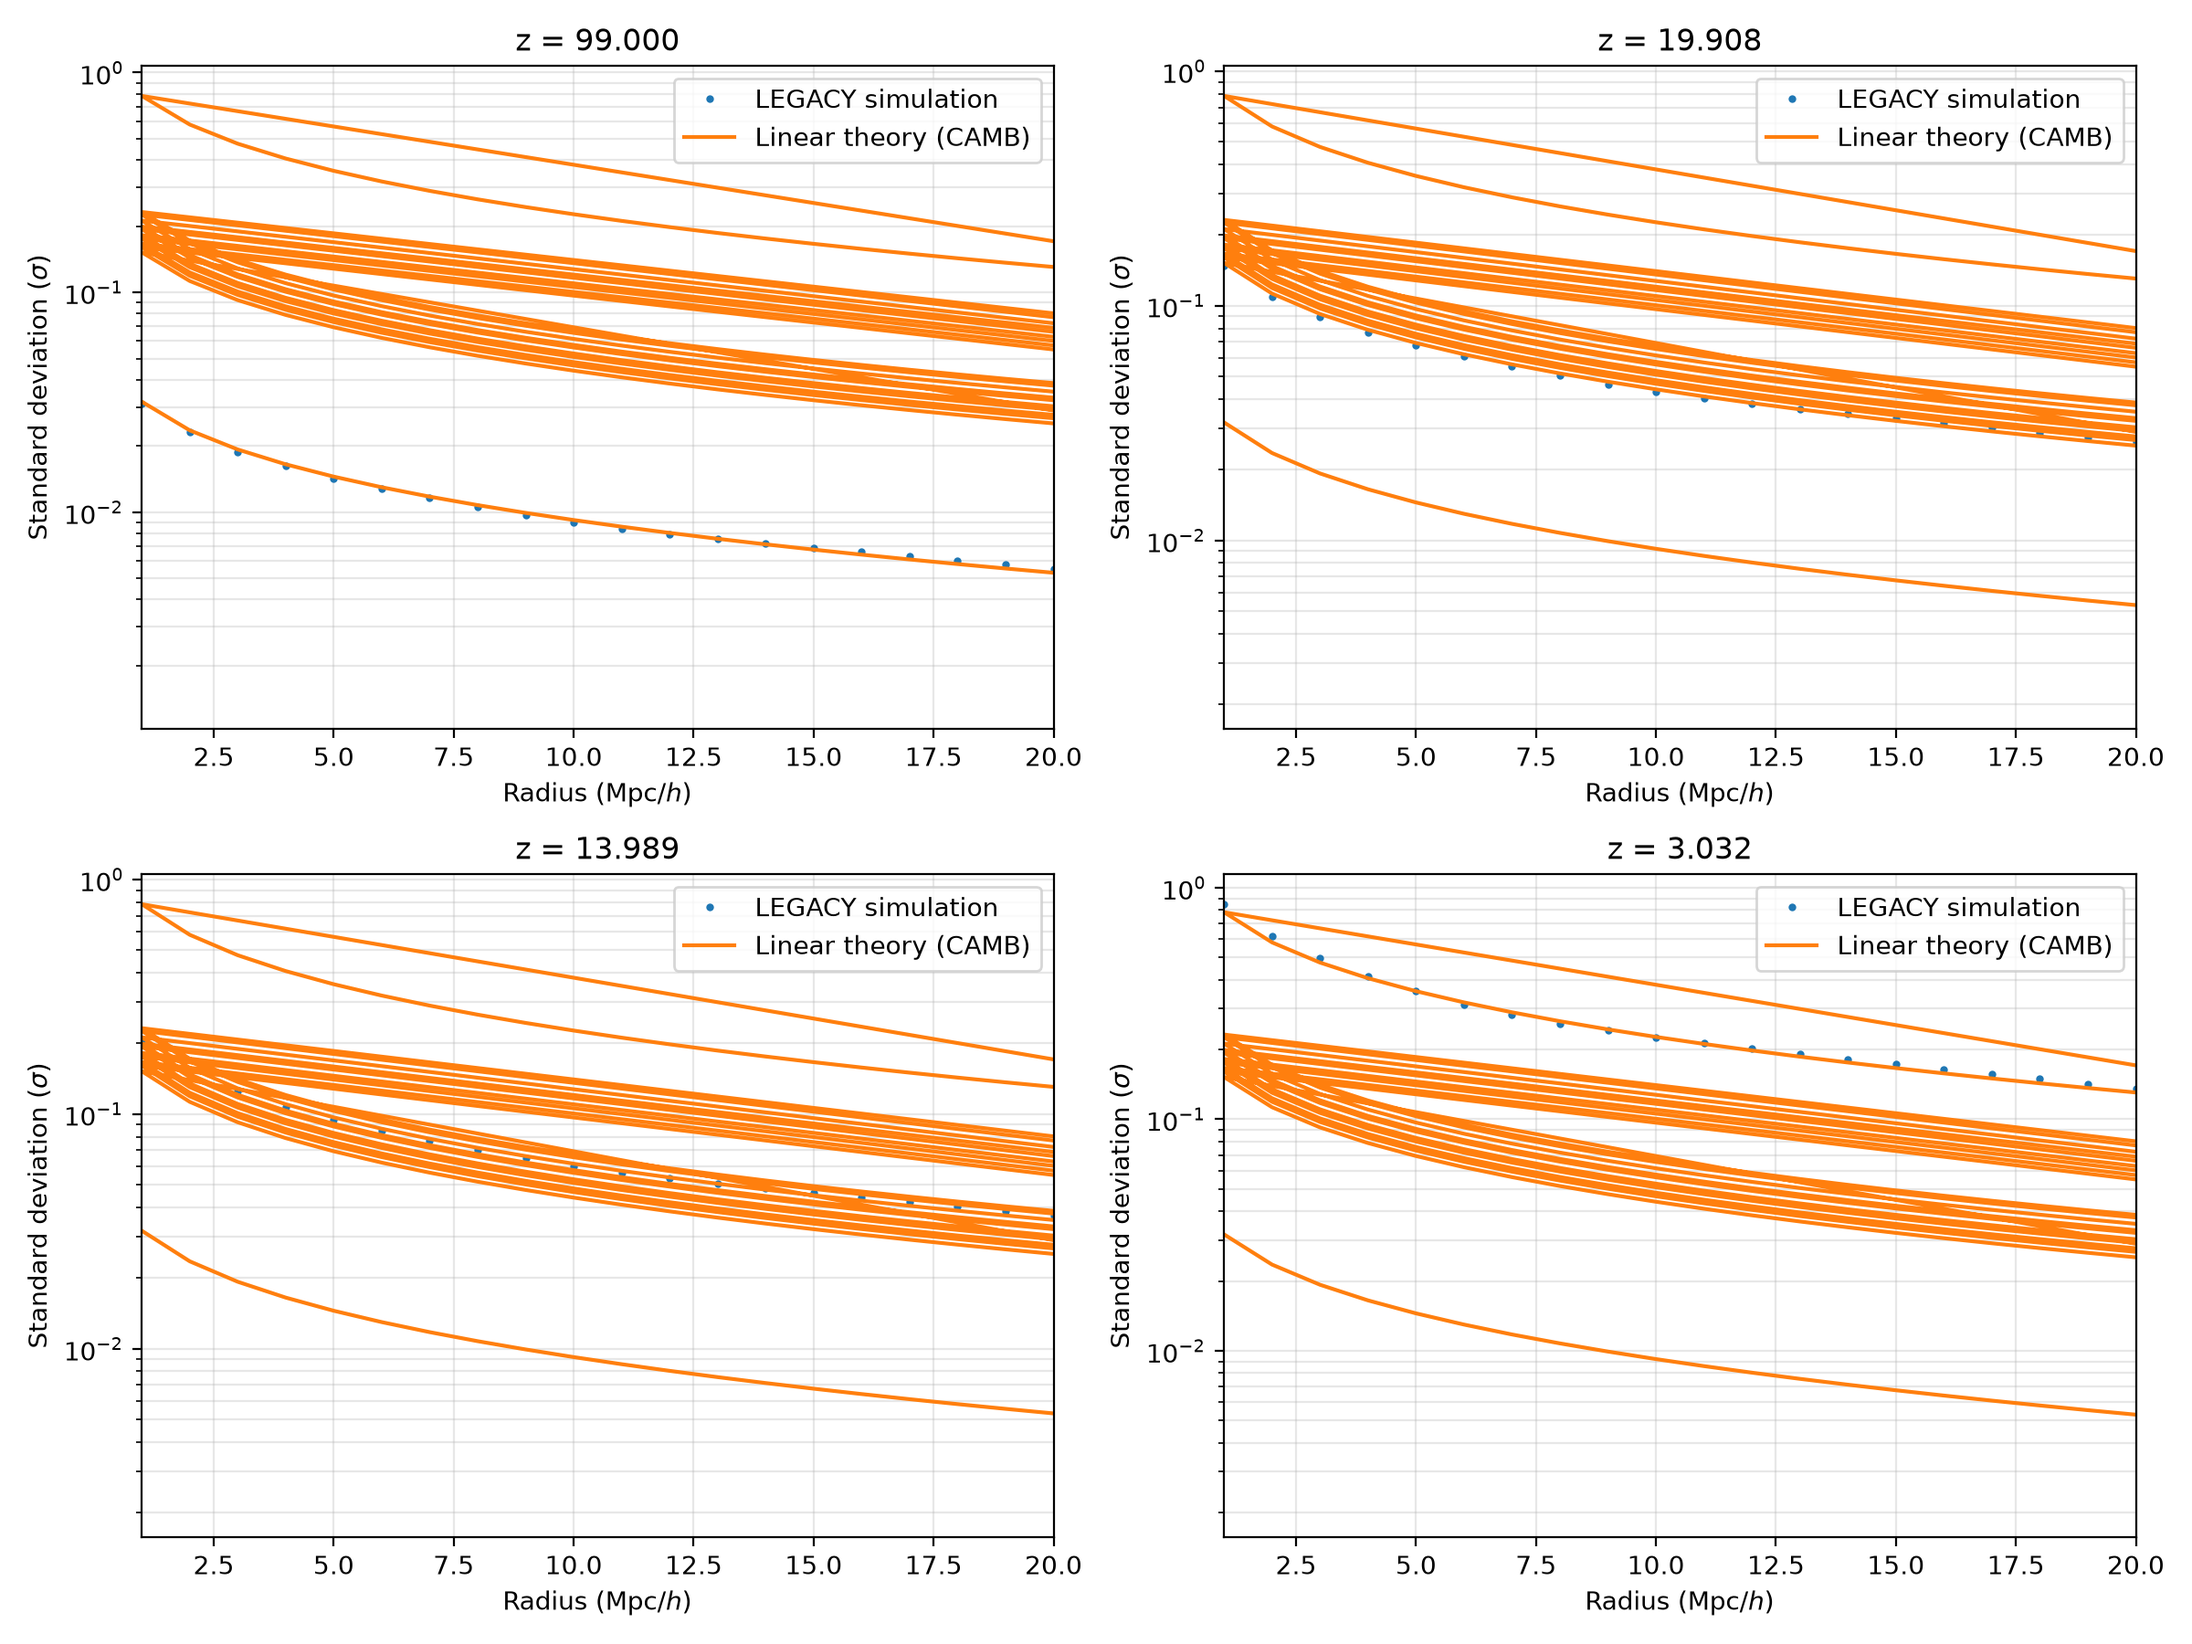
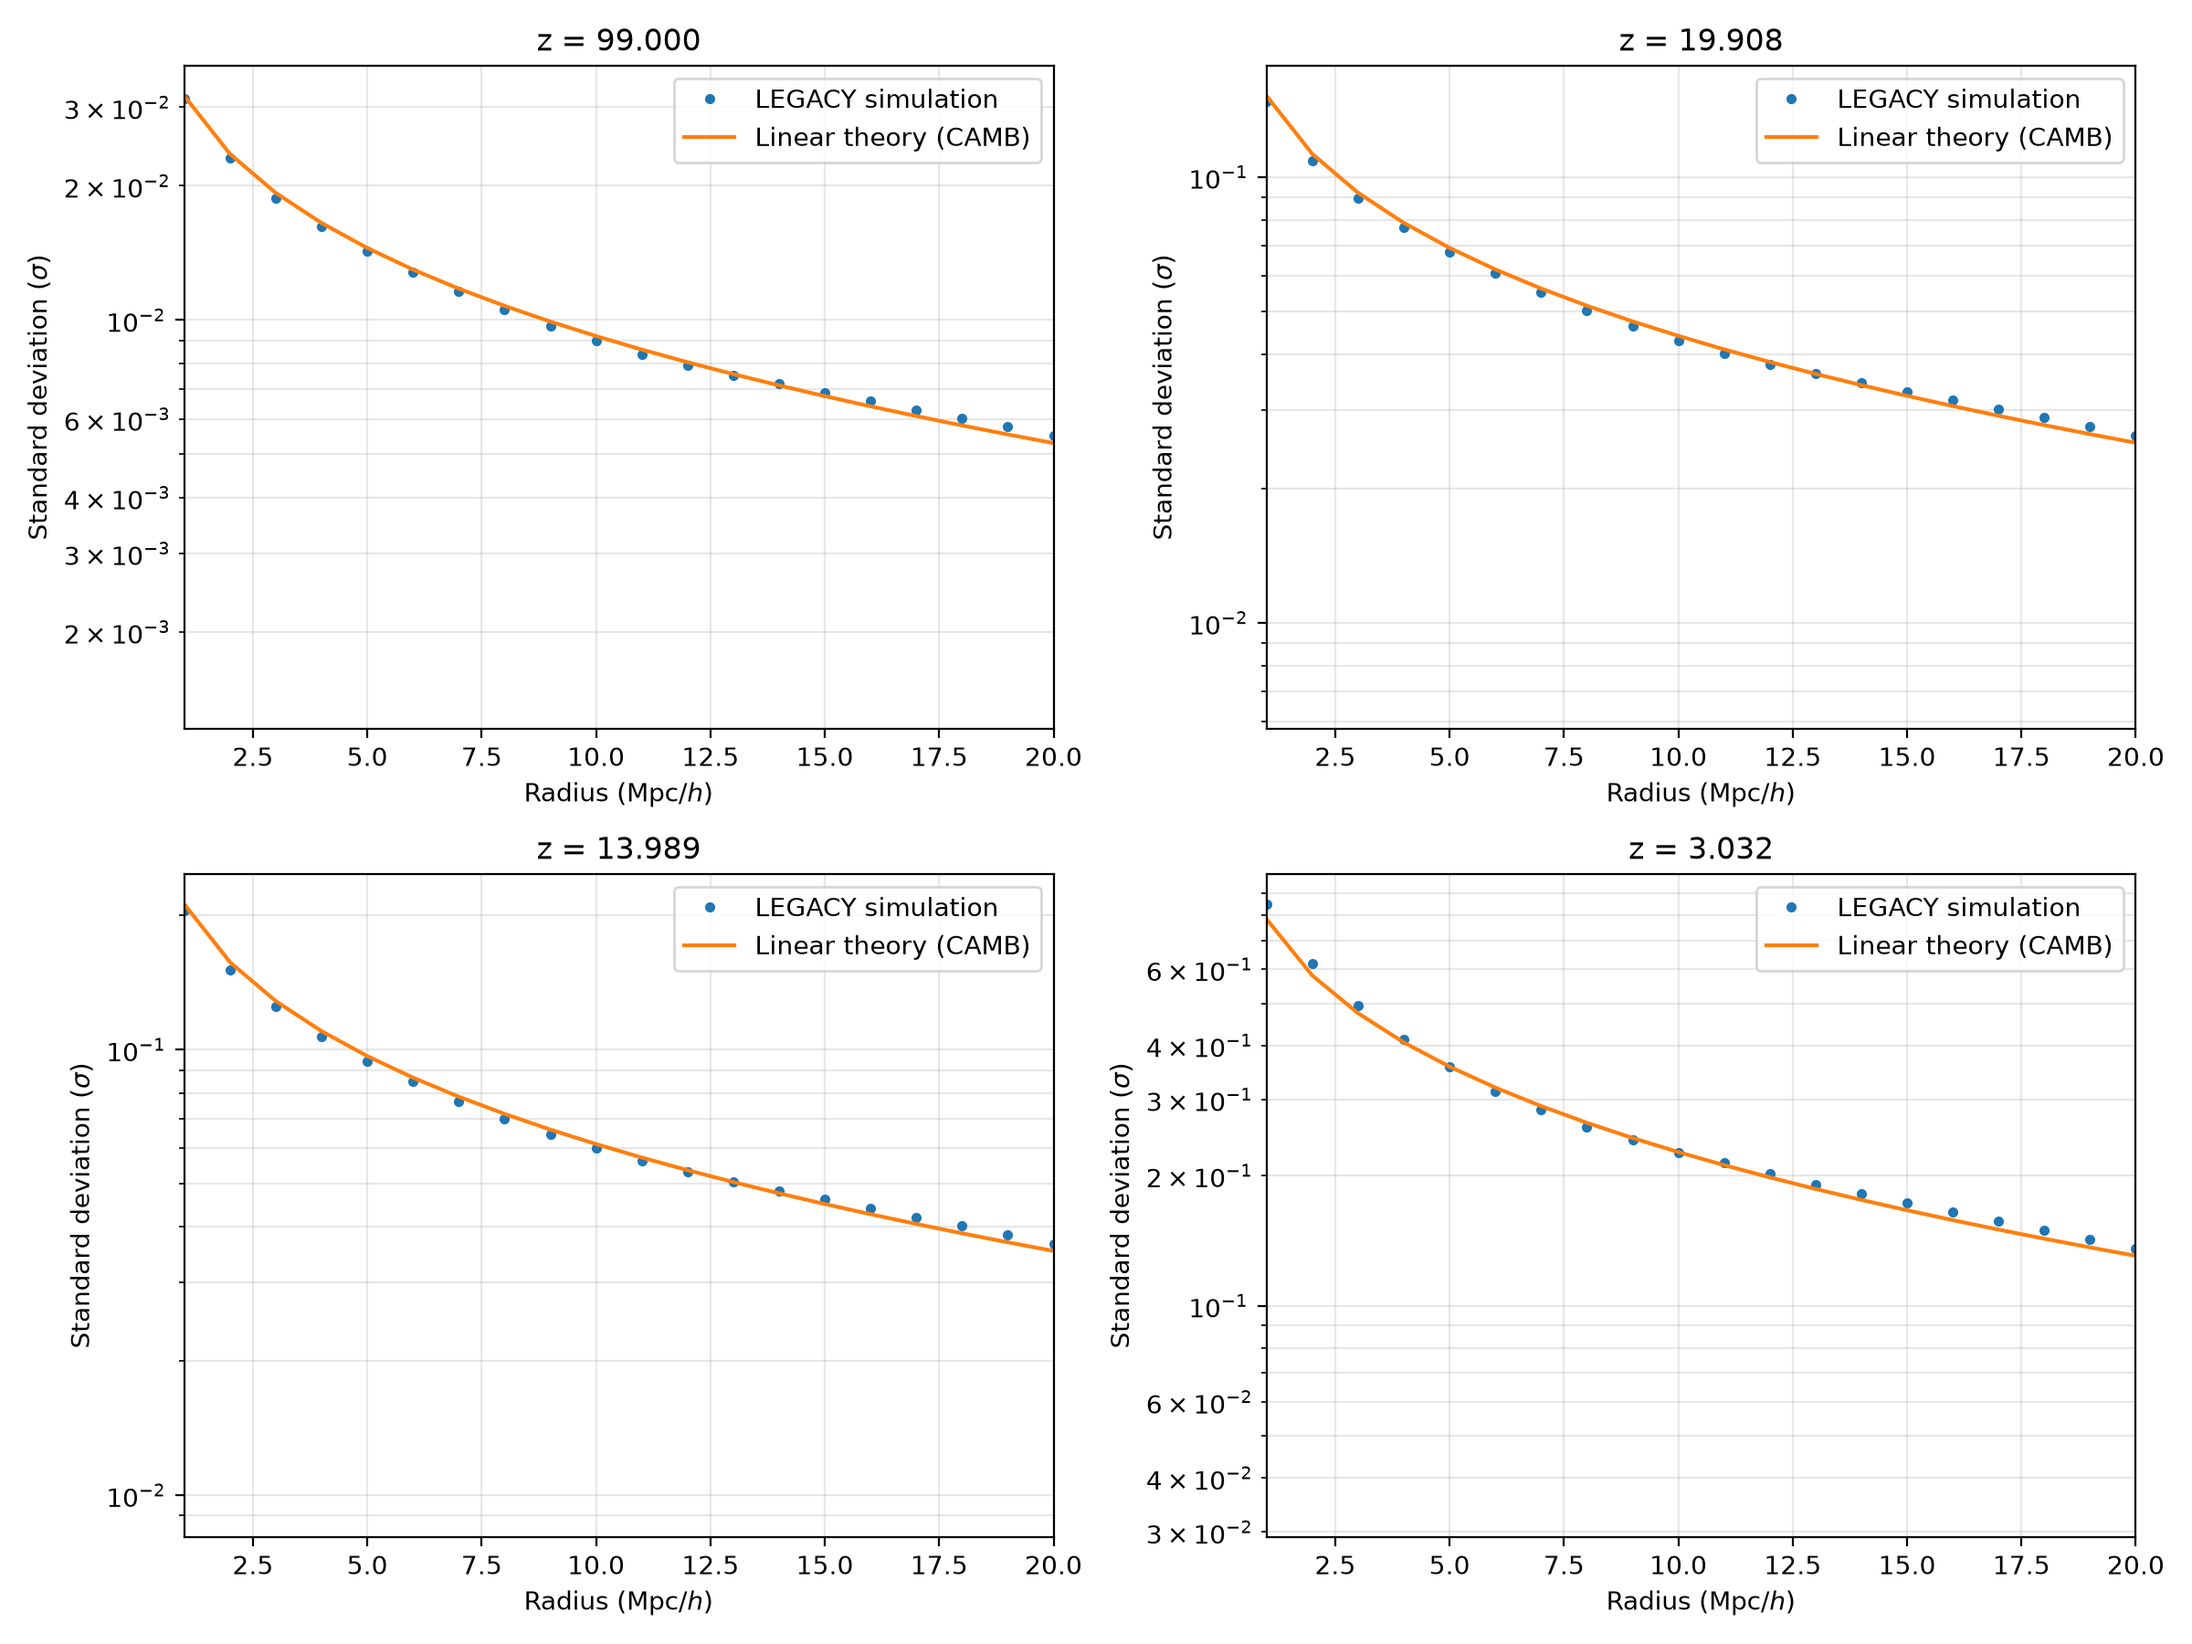
change theoretical data from CAMB to provided

diff --git a/code/residuals.py b/code/residuals.py
@@ -1,76 +1,49 @@
 import numpy as np
+import pandas as pd
 import h5py
 import matplotlib.pyplot as plt
 
-# Select redshift
-target_z = 13
-
-# Load CAMB data
-with open("generated_data/CAMBlinear_sigma.csv", "r") as f:
-    camb_radii = np.array(f.readline().strip().split(",")[1:], dtype=float)
-
-linear_camb = np.loadtxt(
-    "generated_data/CAMBlinear_sigma.csv",
-    delimiter=",",
-    skiprows=1
-)
-
-camb_redshifts = linear_camb[:, 0]
-camb_sigma = linear_camb[:, 1:]
-
-# Load LEGACY data
+# Load LEGACY simulation data
 with h5py.File("optimised/output/variances.h5", "r") as f:
     sim_redshifts = f["redshift"][:]
     sim_radii = f["radii"][:]
     sim_sigma = np.sqrt(f["variance"][:])
 
-# Find selected LEGACY redshift
-idx = np.argmin(np.abs(sim_redshifts - target_z))
-z = sim_redshifts[idx]
+# Load theoretical linear sigma
+linear_df = pd.read_csv("linear_sigma.csv")
 
-# Find matching CAMB redshift
-camb_idx = np.argmin(np.abs(camb_redshifts - z))
+# Select redshift to plot
+target_z = 3.031519
 
-if not np.isclose(camb_redshifts[camb_idx], z):
-    raise ValueError(
-        f"No matching CAMB redshift found for LEGACY z = {z}"
-    )
+# Find nearest LEGACY snapshot
+i = np.argmin(np.abs(sim_redshifts - target_z))
+z = sim_redshifts[i]
 
-print(f"LEGACY redshift: {z}")
-print(f"CAMB redshift:   {camb_redshifts[camb_idx]}")
+# Select theoretical values at the same redshift
+theory = linear_df[
+    np.isclose(linear_df["Redshift"], z, atol=1e-5)
+].sort_values("Radius (Mpc/h)")
 
-# Extract sigma values
-legacy_sigma = sim_sigma[idx, :]
-camb_sigma_z = camb_sigma[camb_idx, :]
+linear_radii = theory["Radius (Mpc/h)"].values
+linear_sigma = theory["Sigma"].values
 
-# Interpolate CAMB onto LEGACY radii
-camb_matched = np.interp(
-    sim_radii,
-    camb_radii,
-    camb_sigma_z
-)
+# Interpolate theory onto LEGACY radii
+theory_matched = np.interp(sim_radii, linear_radii, linear_sigma)
 
 # Calculate fractional residuals
-residuals = (legacy_sigma - camb_matched) / camb_matched
+residuals = (sim_sigma[i] - theory_matched) / theory_matched
 
-# Plot residuals
+# Plot
 plt.figure(figsize=(8, 5))
-
-plt.plot(
-    sim_radii,
-    residuals,
-    marker="o",
-    markersize=4
-)
-
 plt.axhline(0, color="black", linestyle="--", linewidth=1)
+plt.plot(sim_radii, residuals, "o", markersize=3)
 
-plt.xlabel(r"$R\ [\mathrm{Mpc}/h]$")
-plt.ylabel(r"Fractional residual")
-plt.title(f"LEGACY vs CAMB at z = {z:.3f}")
+plt.xlabel(r"Radius ($\mathrm{Mpc}/h$)")
+plt.ylabel("Fractional residual")
+plt.title(f"LEGACY vs linear theory (z = {z:.3f})")
+plt.xlim(1, 20)
+plt.grid(True, alpha=0.3)
 
-plt.grid(alpha=0.3)
 plt.tight_layout()
-
-plt.savefig(f"optimised/output/residuals_{z:.3f}.png", dpi=300)
+plt.savefig("residuals.png", dpi=300)
 plt.show()
